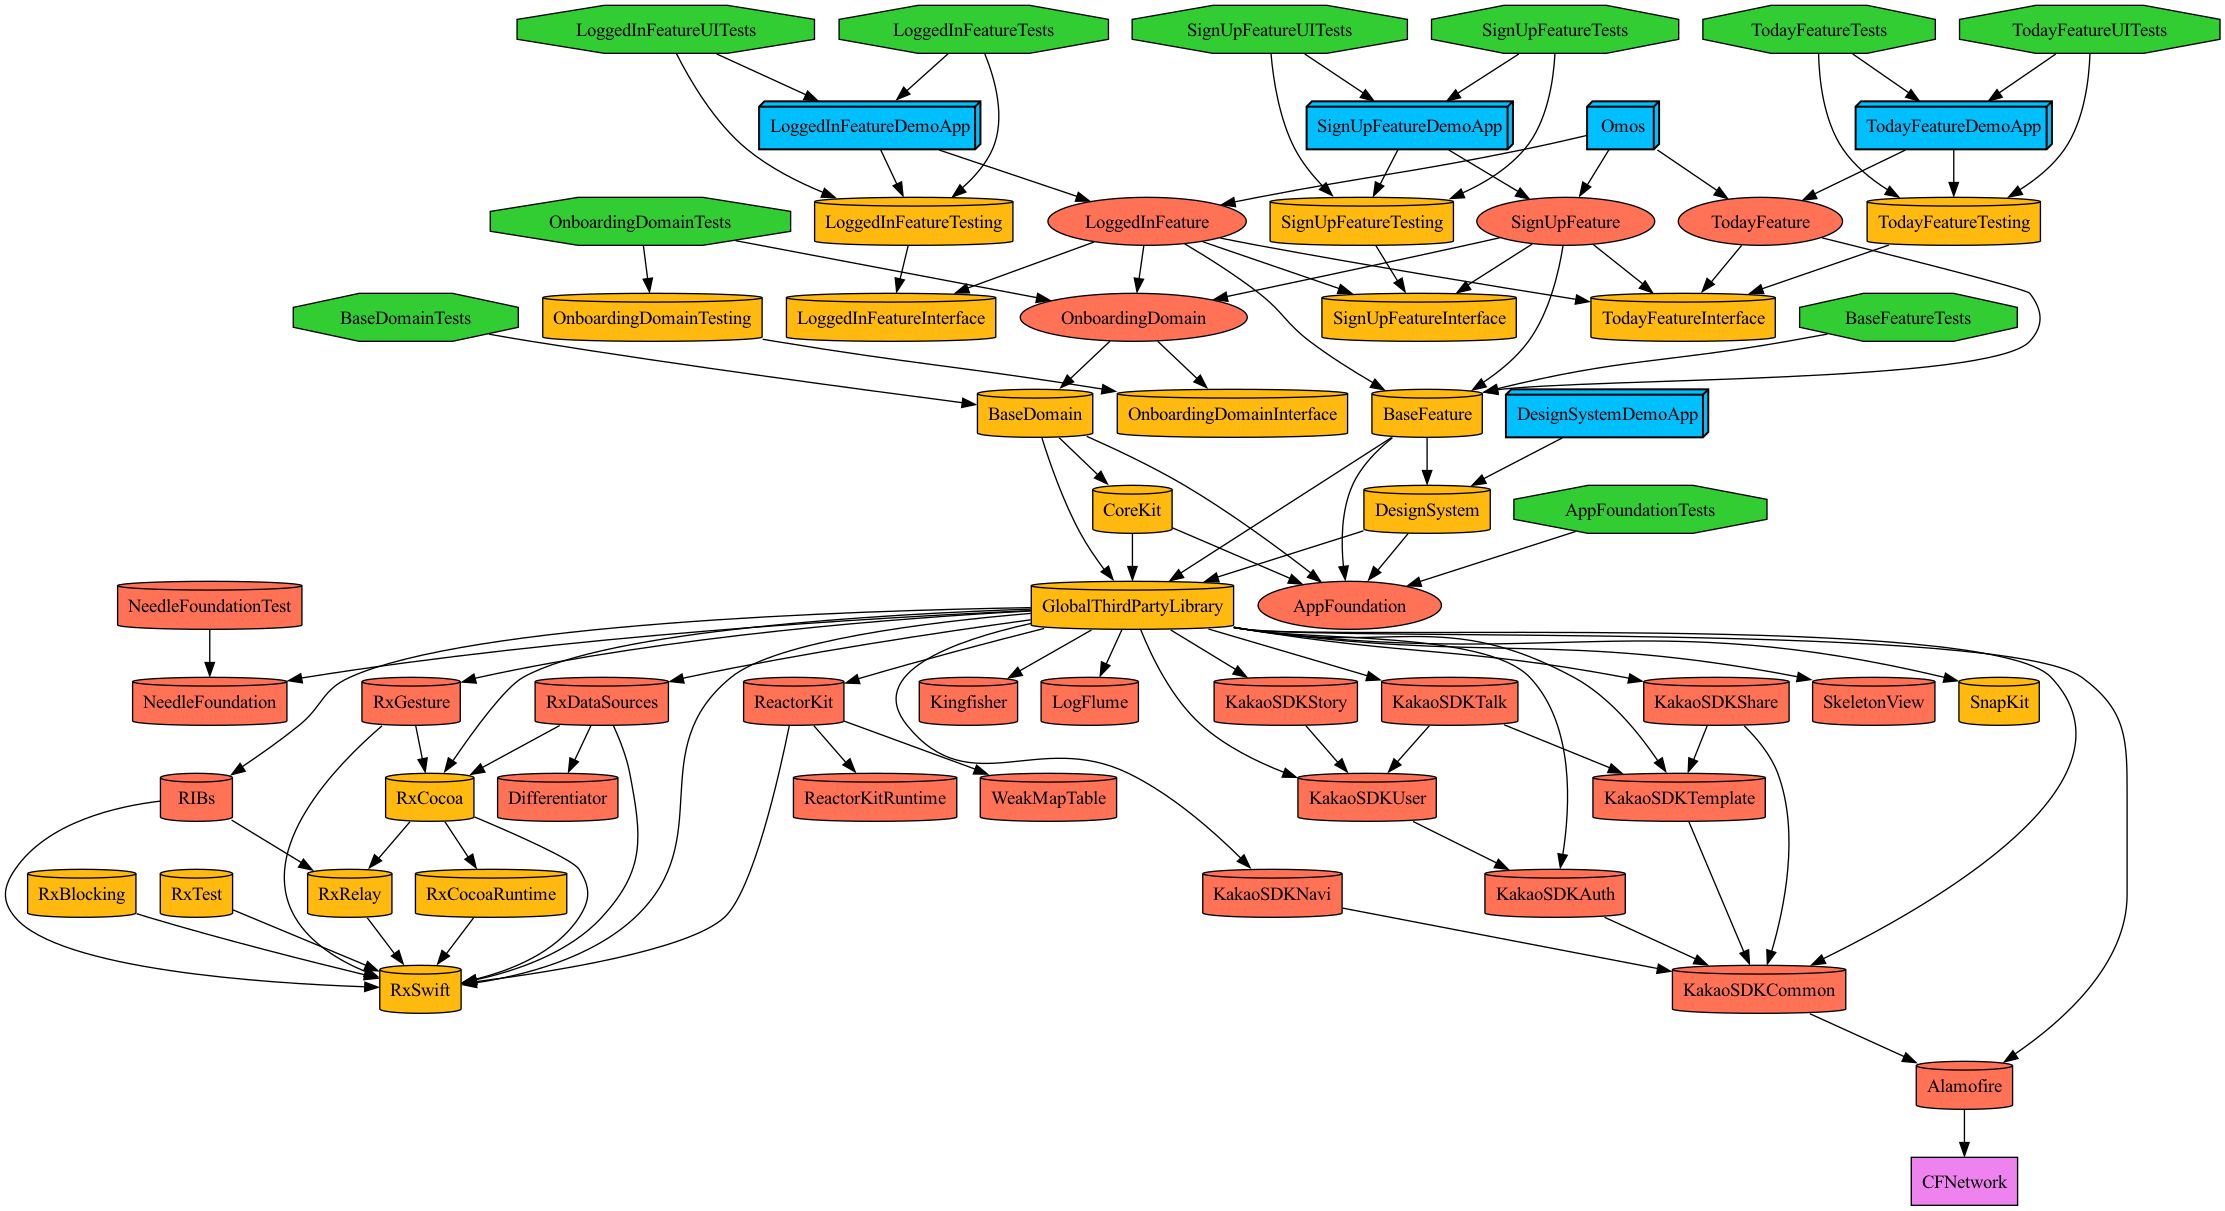
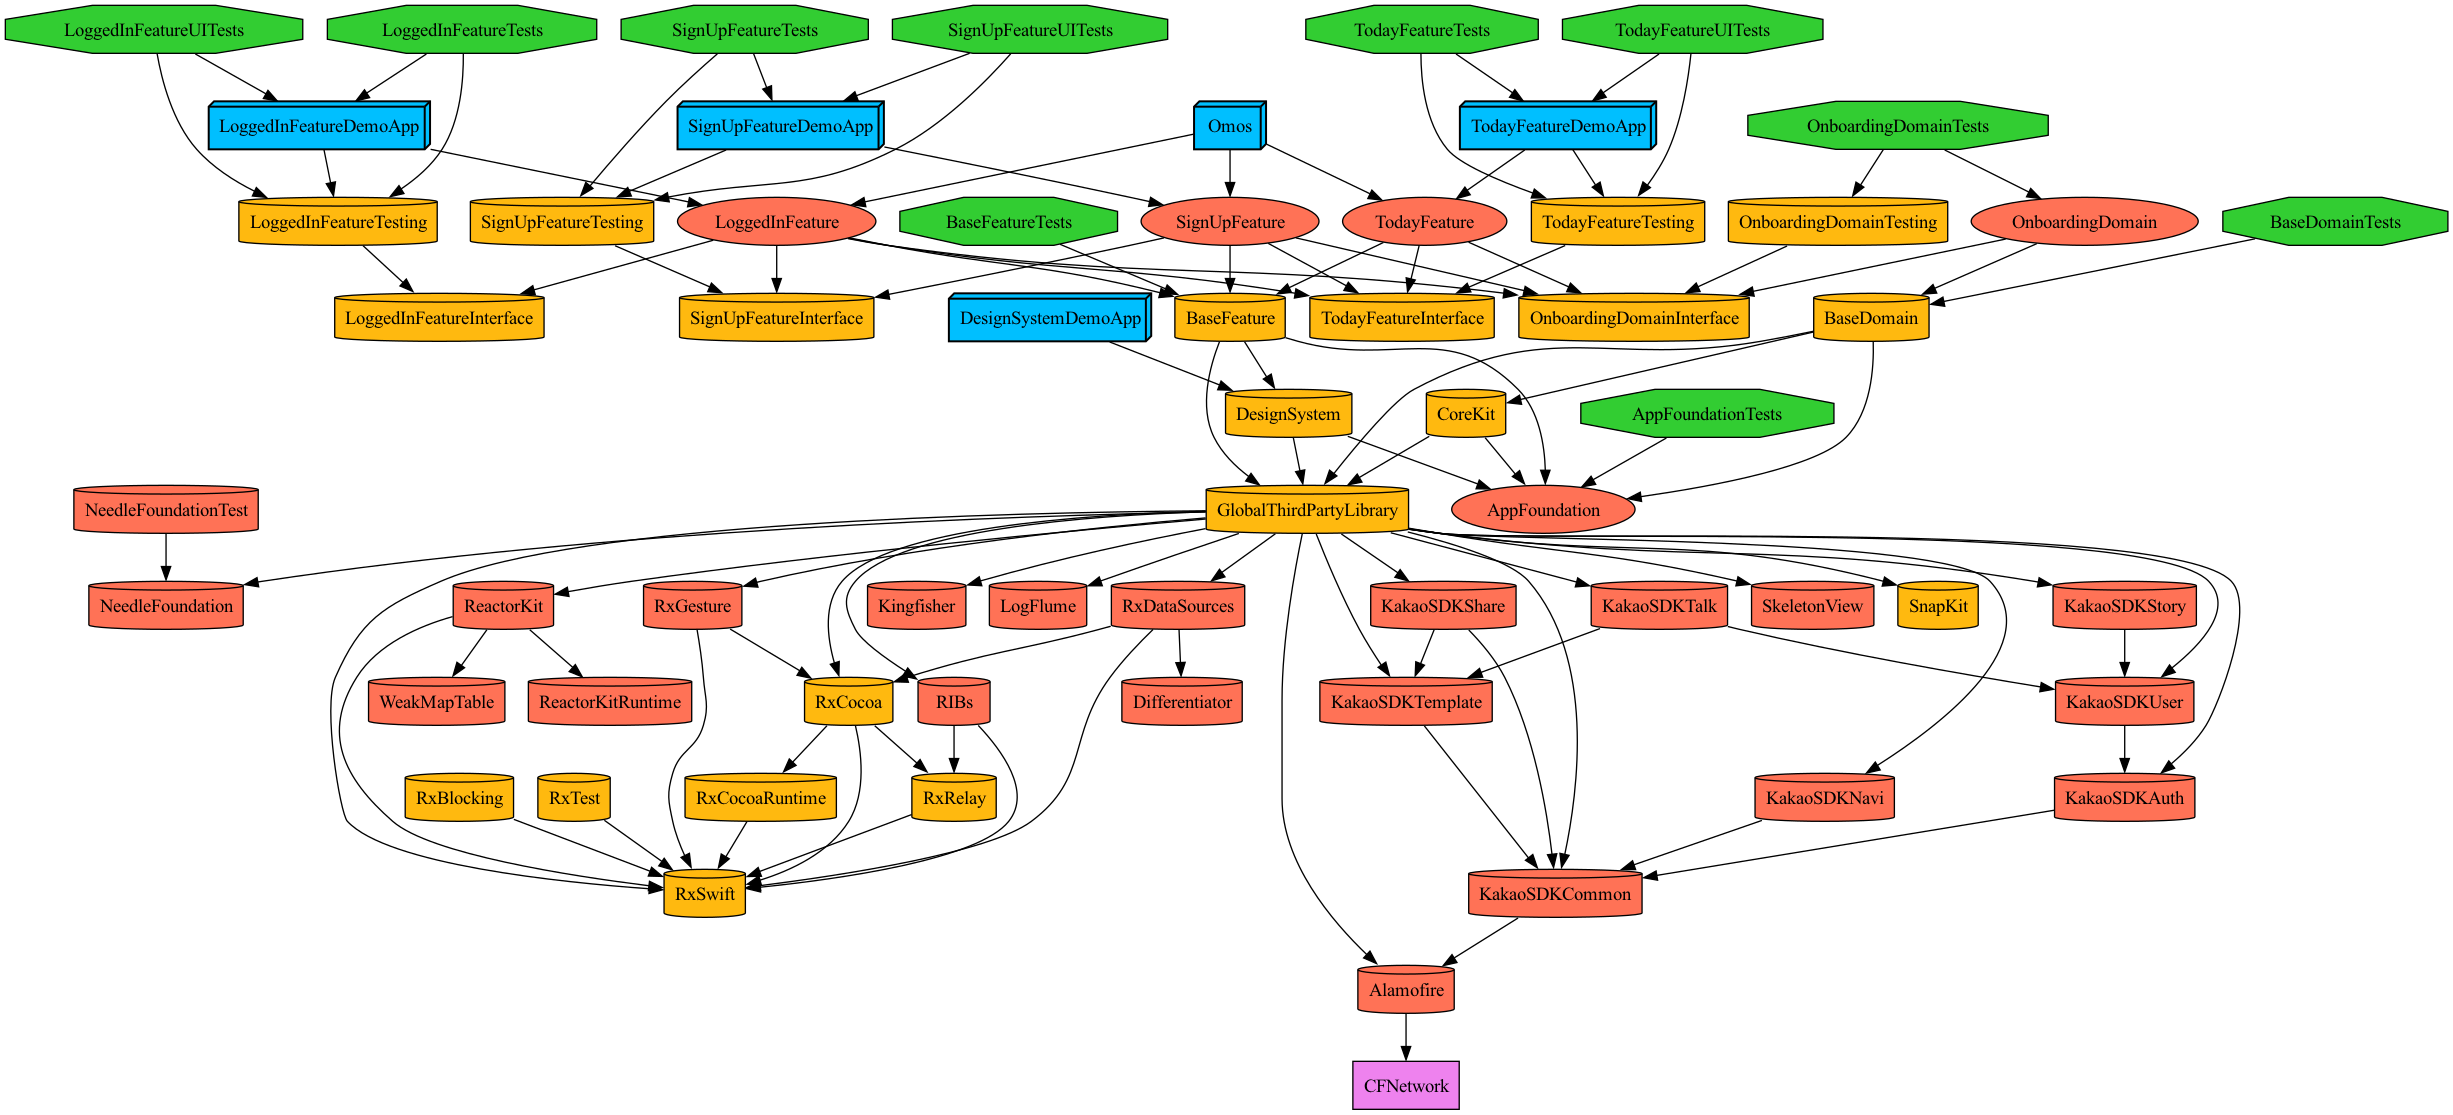
[v1.0.0][ 🛠 - Module: 의존관계 변경 ]

diff --git a/Projects/Feature/LoggedInFeature/Project.swift b/Projects/Feature/LoggedInFeature/Project.swift
@@ -10,6 +10,6 @@ let project = Project.makeModule(
         .feature(target: .BaseFeature),
         .feature(target: .SignUpFeature, type: .interface),
         .feature(target: .TodayFeature, type: .interface),
-        .domain(target: .OnboardingDomain)
+        .domain(target: .OnboardingDomain, type: .interface)
     ]
 )

diff --git a/Projects/Feature/SignUpFeature/Project.swift b/Projects/Feature/SignUpFeature/Project.swift
@@ -9,6 +9,6 @@ let project = Project.makeModule(
     internalDependencies: [
         .feature(target: .BaseFeature),
         .feature(target: .TodayFeature, type: .interface),
-        .domain(target: .OnboardingDomain)
+        .domain(target: .OnboardingDomain, type: .interface)
     ]
 )

diff --git a/Projects/Feature/TodayFeature/Project.swift b/Projects/Feature/TodayFeature/Project.swift
@@ -8,5 +8,6 @@ let project = Project.makeModule(
     targets: [.interface, .testing, .unitTest, .uiTest, .demo],
     internalDependencies: [
         .feature(target: .BaseFeature),
+        .domain(target: .OnboardingDomain, type: .interface)
     ]
 )
